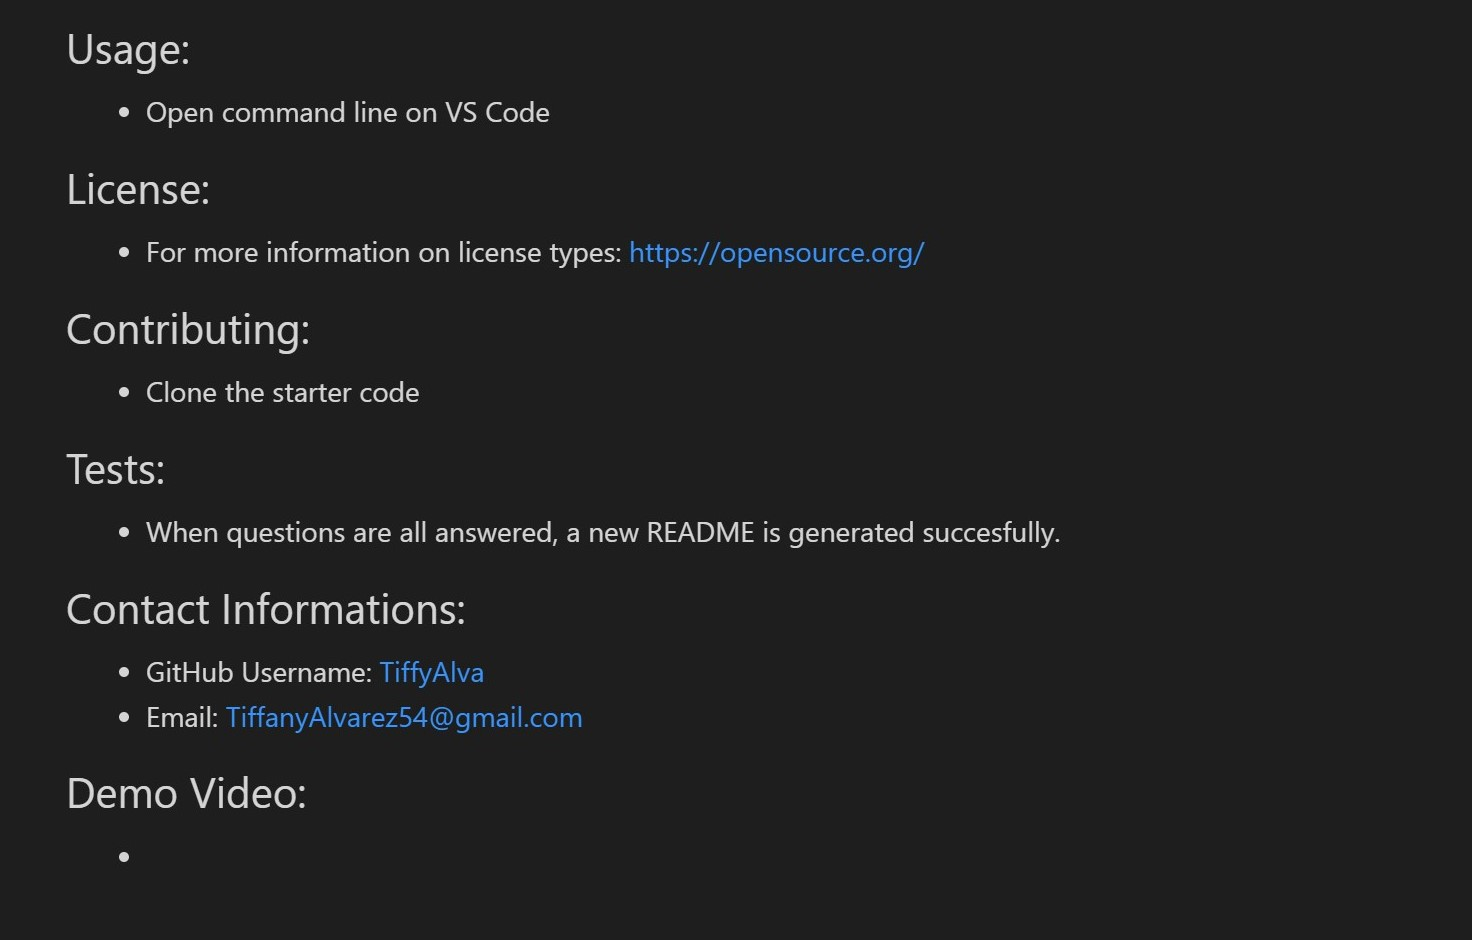
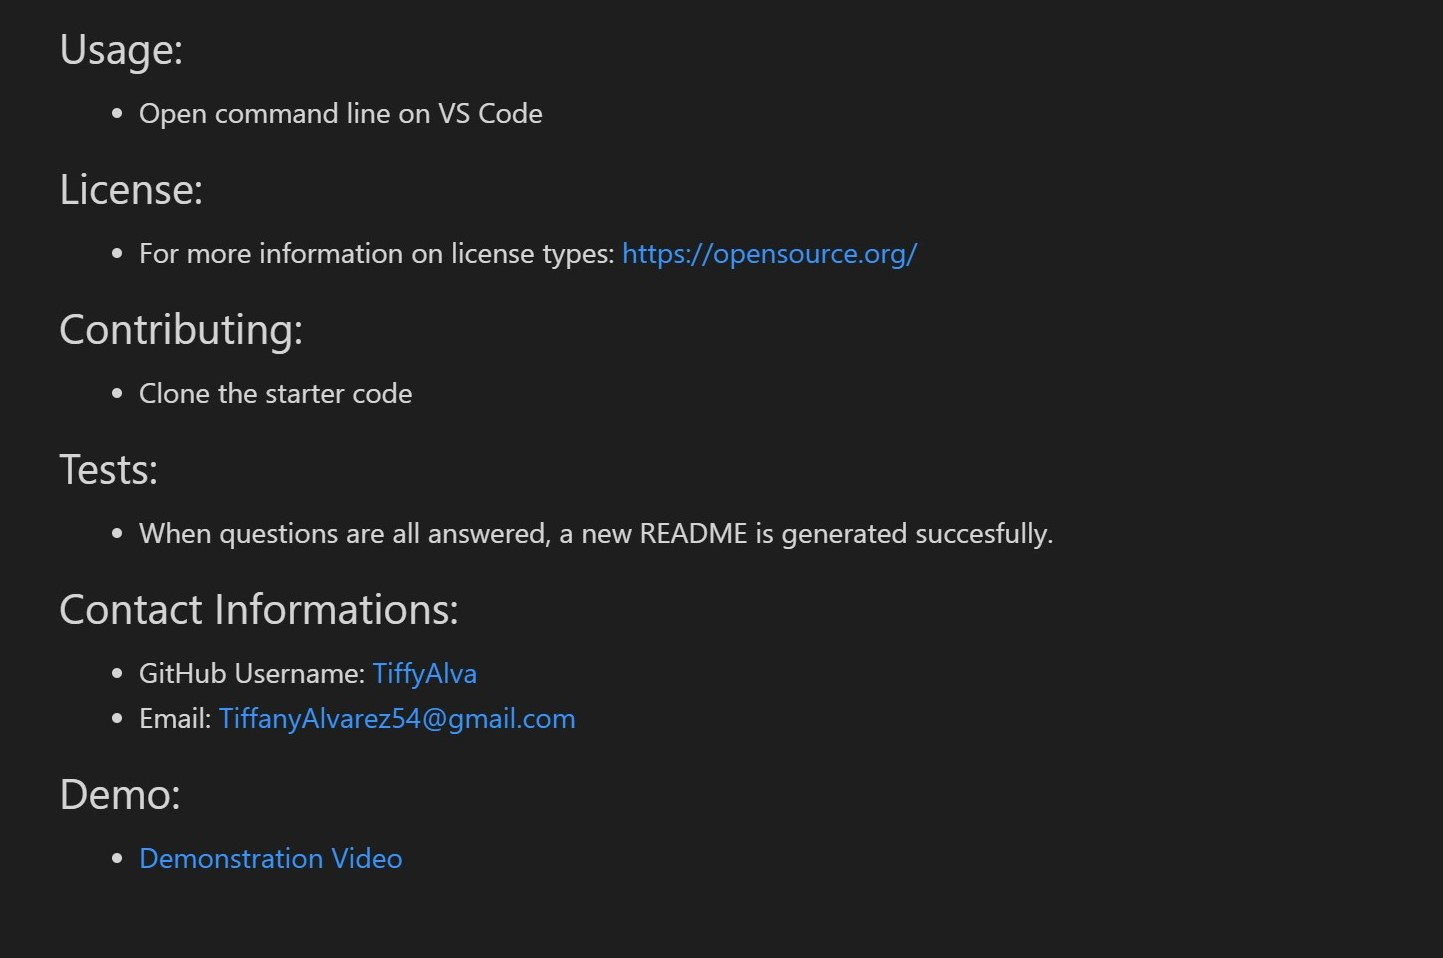
Final

diff --git a/README.md b/README.md
@@ -18,7 +18,7 @@ N/A
   * [Contributing](#contributing)
   * [Tests](#tests)
   * [Contact Informations](#contact) 
-  * [Demo Video](#demo-video) 
+  * [Demo](#demo)
 
 
 ## User Story 
@@ -79,8 +79,9 @@ SO THAT I can quickly create a professional README for a new project</pre>
 * GitHub Username: <a href="https://github.com/TiffyAlva">TiffyAlva</a>
 * Email: <a href="malito:TiffanyAlvarez54@gmail.com">TiffanyAlvarez54@gmail.com
 
-## Demo Video: 
-* 
+## Demo:
+- <a href="https://drive.google.com/file/d/1szgjGp95j9kcr2B7WkgU1C_YpKF8qVxx/view">Demonstration Video</a> 
+
 
 
 

diff --git a/result.md b/result.md
@@ -2,7 +2,7 @@
   [![License](https://img.shields.io/badge/License-Apache_2.0-blue.svg)](https://opensource.org/licenses/Apache-2.0)
   
   ## Description: 
-  Testing Project
+  Testing
   
 
   ## Table of Contents:
@@ -19,7 +19,7 @@
 
 
   ## Installation: 
-  Install inquirer, run npm init, and run node.js
+  Install inquirer, run npm init, and run node index.js
 
   ## Usage:
   Testing
